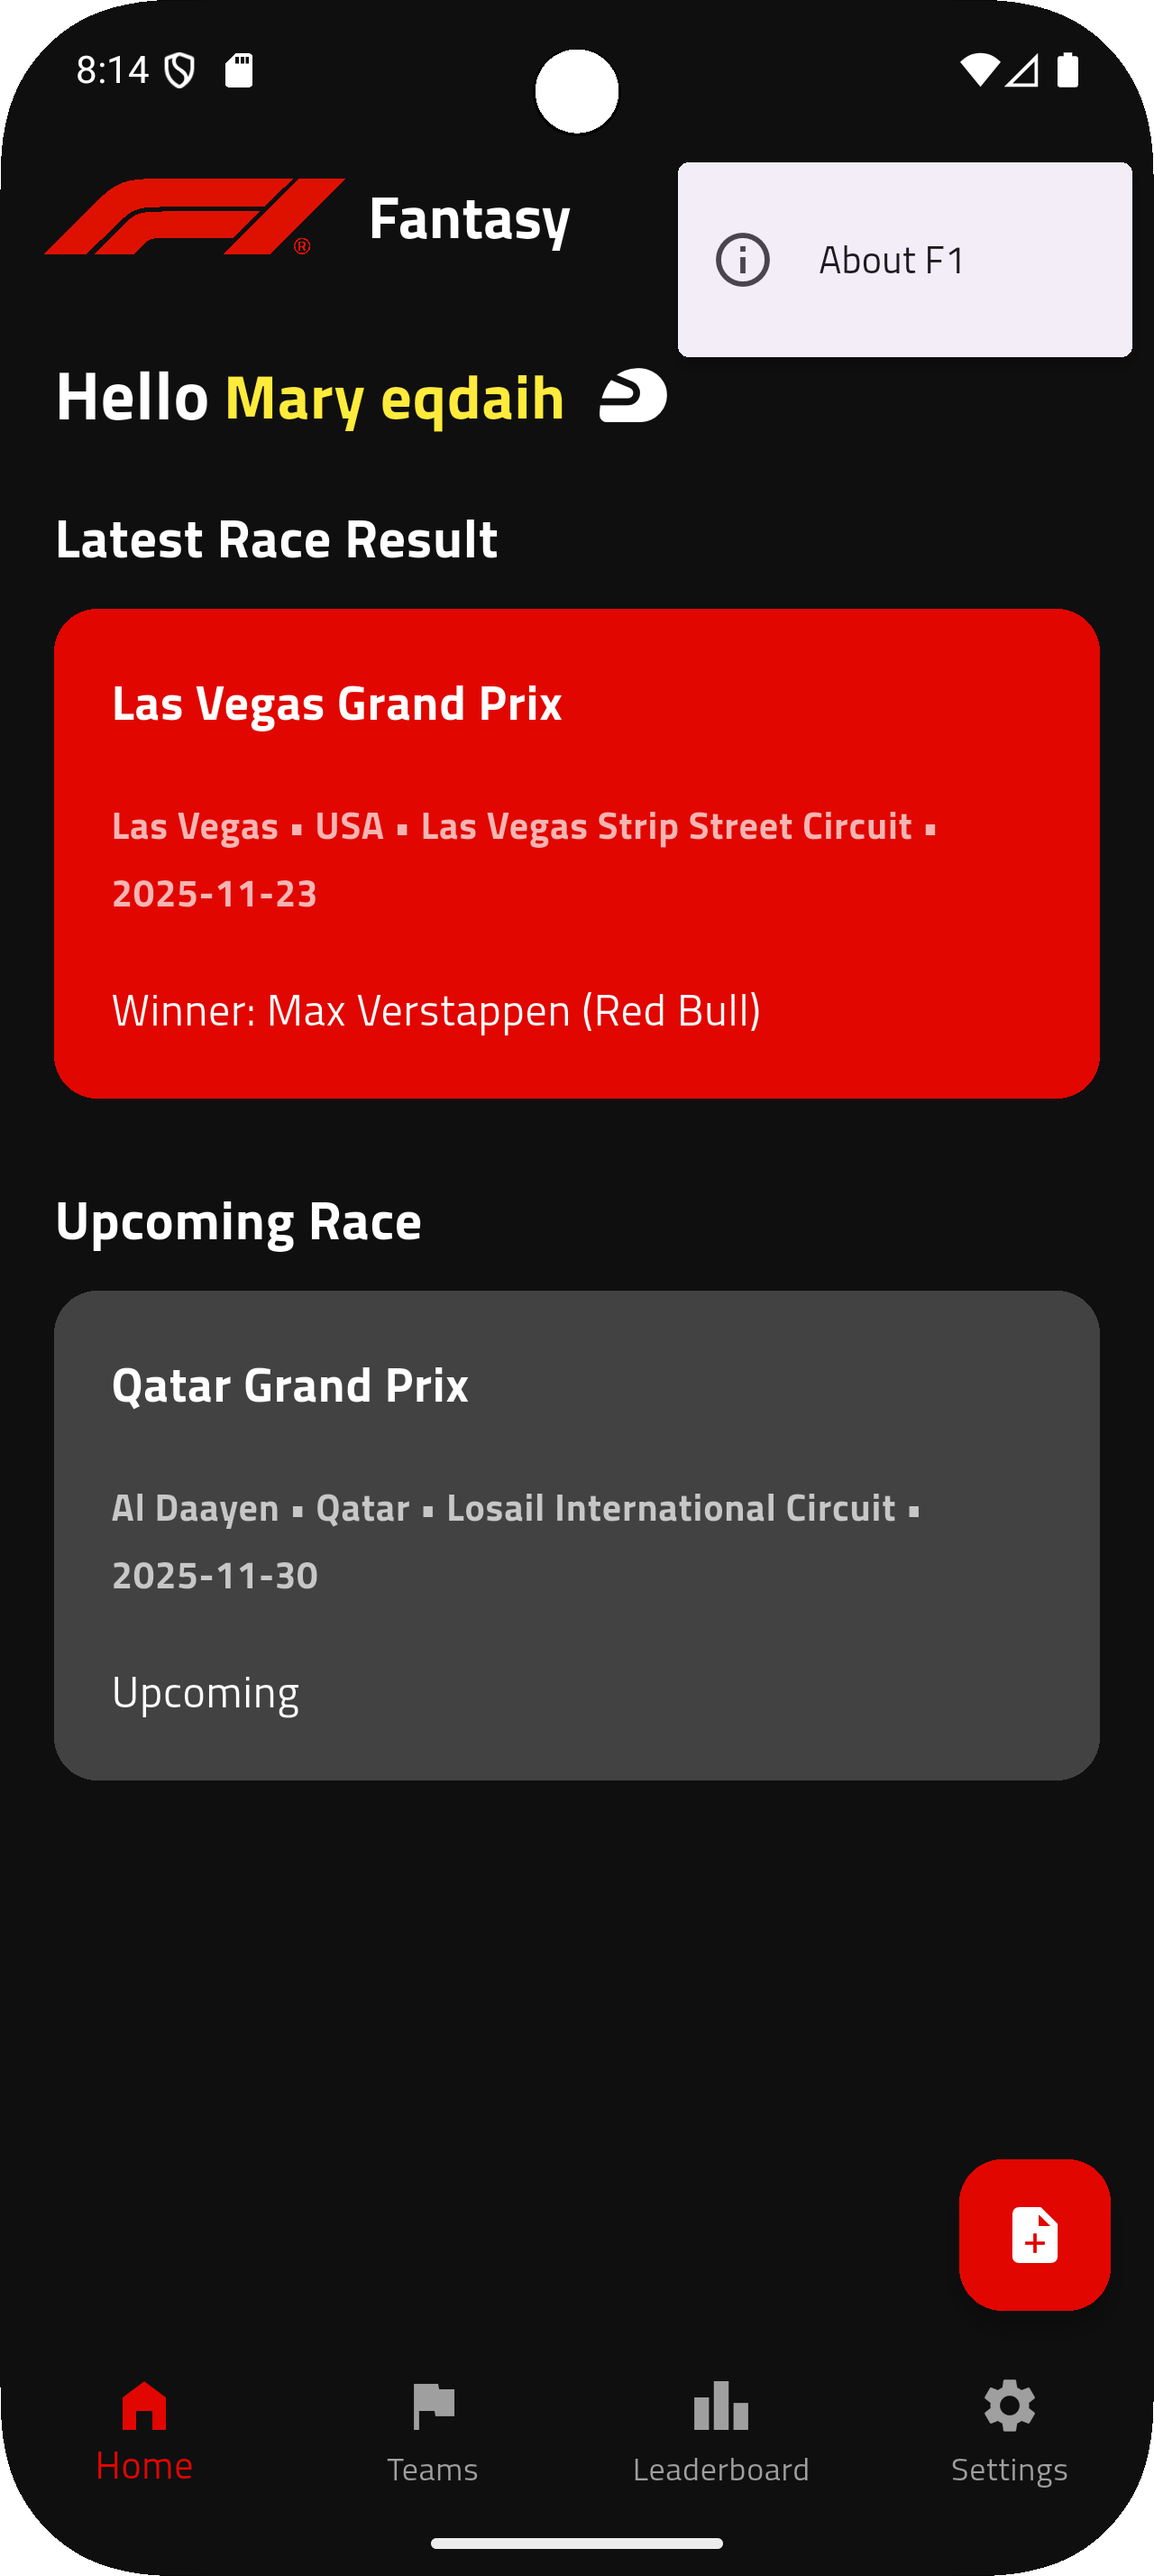
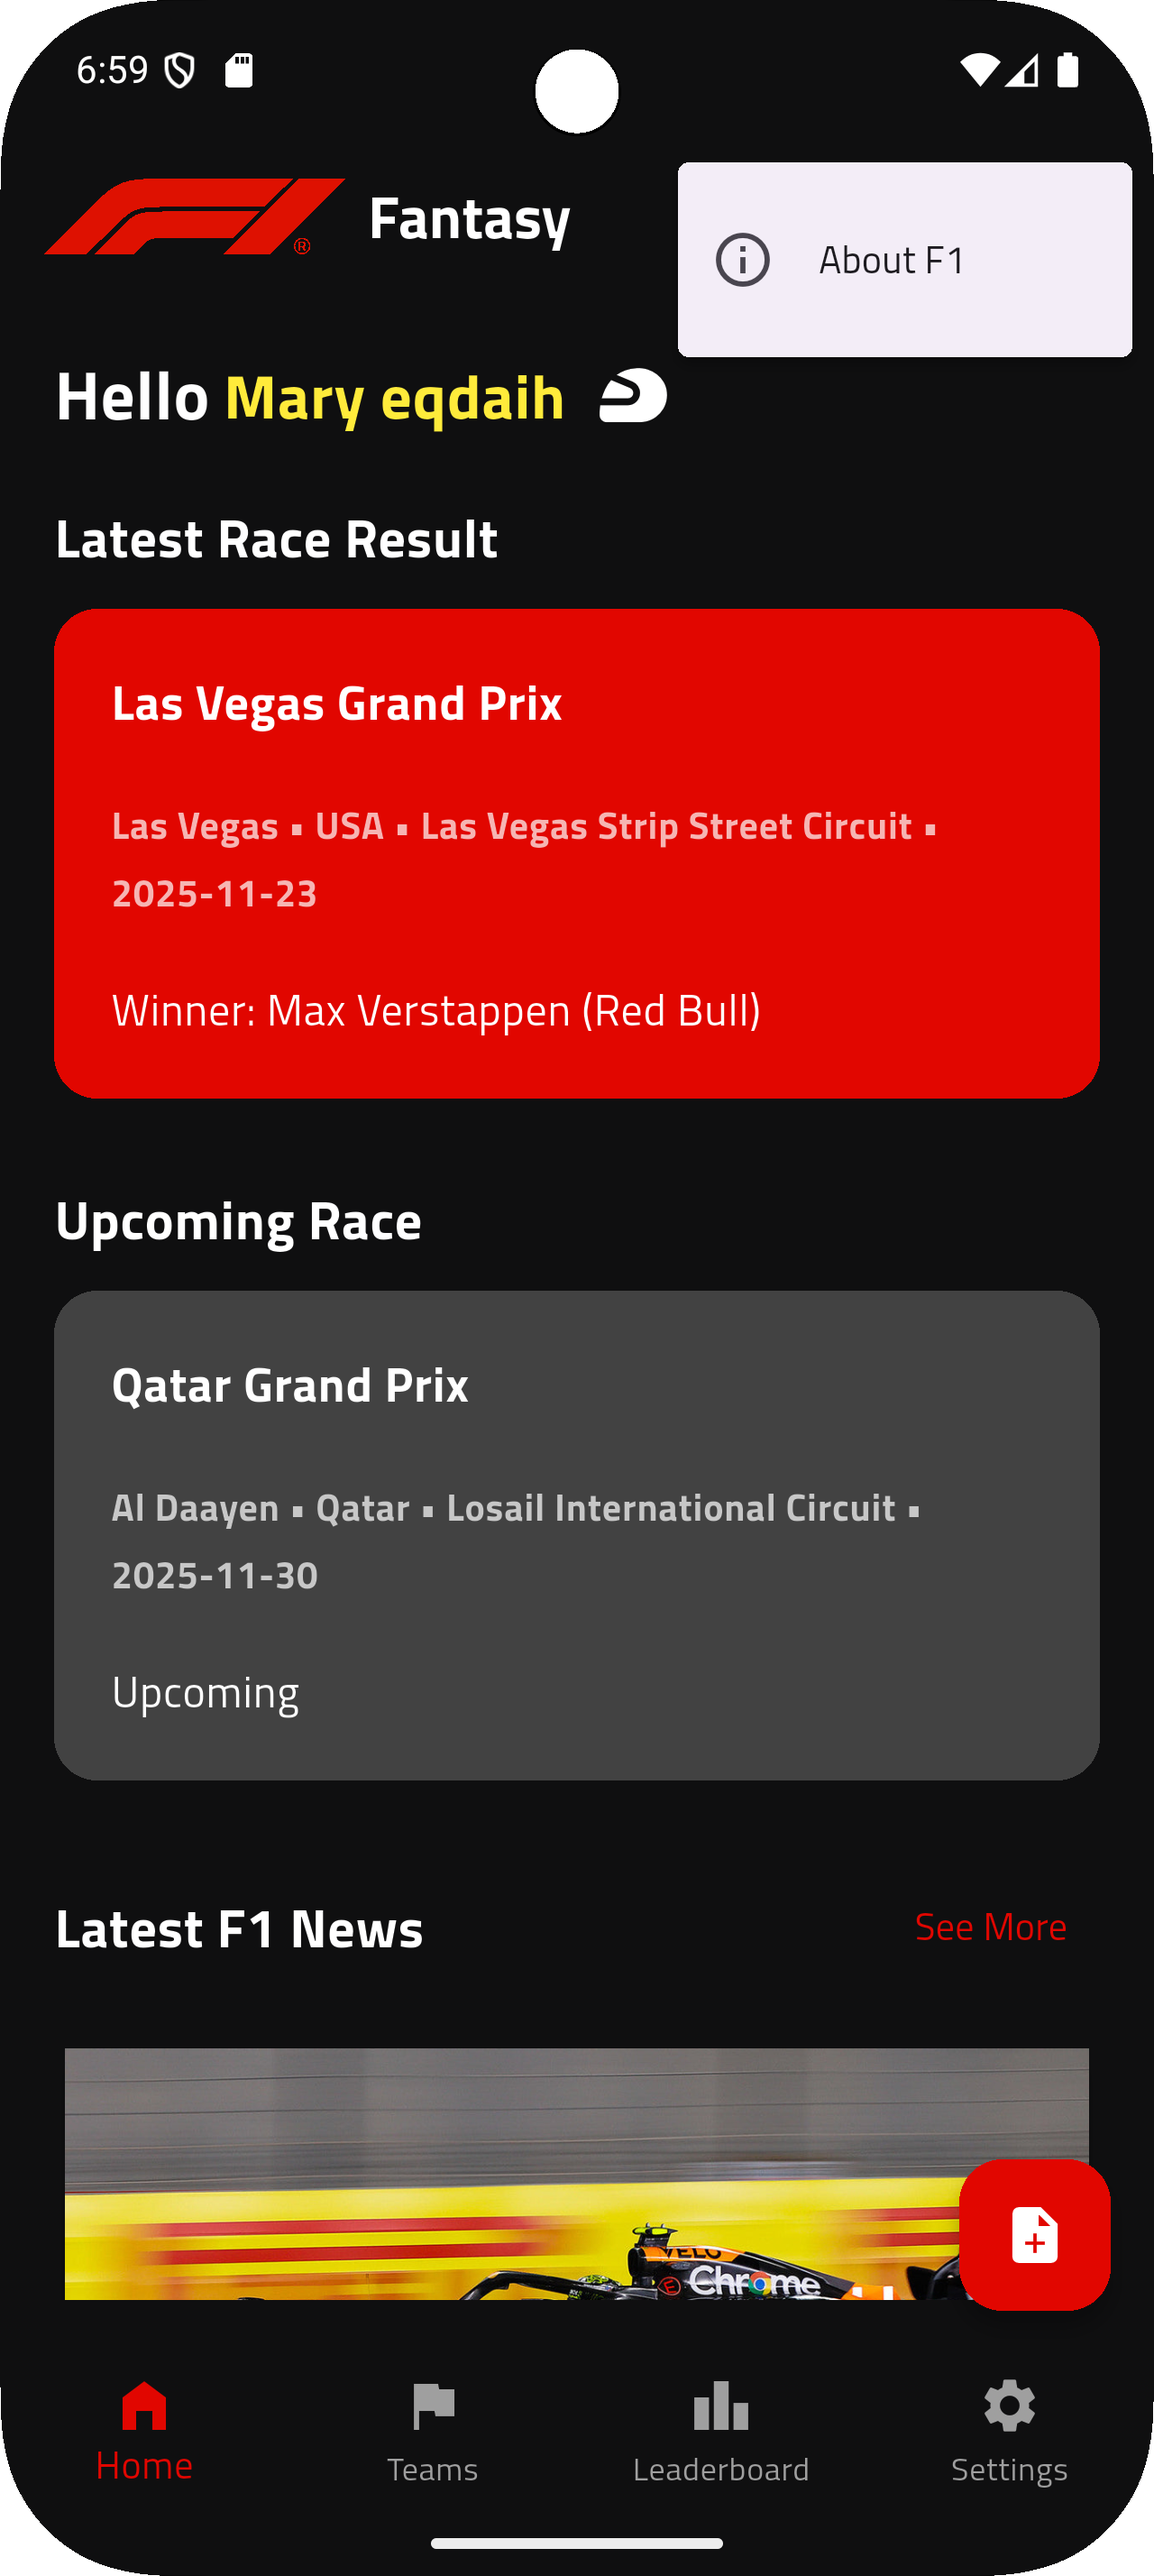
Add F1 news section
- Introduce a "Latest F1 News" section on the `Home` screen, displaying the most recent news item in a card.
- Add a "See More" button that navigates to a new `News` screen, which lists all available news articles.
- Create a `News` screen to display a list of `NewsCardWidget`.
- Implement `NewsCardWidget` for a consistent UI to display news with an image, title, and subtitle.
- Define a `NewsModel` to structure the news data (title, subtitle, image URL).
- Add the `/news` route to the application's routing table.
- Update `README.md` to include a screenshot of the new F1 news screen.

Changed region(s): [[0.0312, 0.7167, 0.9688, 0.9037], [0.0938, 0.0, 0.125, 0.0312]]

diff --git a/lib/f1/presentation/screens/home/home.dart b/lib/f1/presentation/screens/home/home.dart
@@ -1,10 +1,13 @@
 import 'package:firebase_auth/firebase_auth.dart';
 import 'package:flutter/material.dart';
+import 'package:formula1_fantasy/f1/data/models/news_model.dart';
 import 'package:formula1_fantasy/f1/data/models/race_details_model.dart';
 import 'package:formula1_fantasy/f1/data/models/race_info_model.dart';
 import 'package:formula1_fantasy/f1/data/remote/f1_api.dart';
 import 'package:formula1_fantasy/f1/presentation/screens/raceDetails/race_details.dart';
+import 'package:formula1_fantasy/f1/presentation/widgets/news_card_widget.dart';
 import 'package:formula1_fantasy/f1/presentation/widgets/race_widget.dart';
+import 'package:formula1_fantasy/routes/routes.dart';
 
 class Home extends StatefulWidget {
   const Home({super.key});
@@ -44,6 +47,47 @@ class _HomeState extends State<Home> {
 
   @override
   Widget build(BuildContext context) {
+    List<NewsModel> news = [
+      NewsModel(
+        title: "McLaren Disqualified from the Race",
+        subtitle:
+            "McLaren removed from 2025 Las Vegas GP results after both cars failed post‑race inspection — skid‑block wear below the 9 mm minimum triggered disqualification.",
+        imgUrl:
+            "https://fansbrands.com/cdn/shop/articles/mclaren_auto_7_2a3f8809-05b4-437b-b723-51f073965a6f.jpg?v=1758158815&width=1600",
+      ),
+      NewsModel(
+        title:
+            "Verstappen Wins Las Vegas GP After McLaren Double Disqualification",
+        subtitle:
+            "Max Verstappen claimed victory at the 2025 Las Vegas Grand Prix after both McLaren cars were excluded post‑race due to excessive skid‑block wear.", // info from F1 report
+        imgUrl:
+            "https://encrypted-tbn0.gstatic.com/images?q=tbn:ANd9GcTjpV1F7rqrWdCIkGMuIeCHwGSiCd5cryJ8uA&s",
+      ),
+
+      NewsModel(
+        title: "McLaren Issues Apology Following Double DSQ in Vegas",
+        subtitle:
+            "McLaren acknowledged the disqualification of Lando Norris and Oscar Piastri was unintentional, citing unexpected plank wear due to circuit conditions in Las Vegas.",
+        imgUrl:
+            "https://encrypted-tbn0.gstatic.com/images?q=tbn:ANd9GcQjKiGrxsacYpo3C8vcMzND84FD5JJlpwV0lw&s",
+      ),
+
+      NewsModel(
+        title: "Championship Shake‑Up: Norris’ Lead Cut After Vegas DSQ",
+        subtitle:
+            "With the Las Vegas Grand Prix results voided for McLaren, the title battle tightens — Verstappen now closes in, while Piastri moves level on points.",
+        imgUrl:
+            "https://encrypted-tbn0.gstatic.com/images?q=tbn:ANd9GcSHsT6HaaMfpwEqoFY6avgFJe_9fnl7uAiioA&s",
+      ),
+
+      NewsModel(
+        title: "Full Vegas GP Results: Russell and Antonelli Promote to Podium",
+        subtitle:
+            "After McLaren’s exclusion, George Russell and Kimi Antonelli were elevated to 2nd and 3rd place respectively in the adjusted 2025 Las Vegas Grand Prix standings.",
+        imgUrl:
+            "https://cdn-5.motorsport.com/images/amp/0mb4DnG2/s1000/andrea-kimi-antonelli-mercedes.jpg",
+      ),
+    ];
     final user = FirebaseAuth.instance.currentUser;
 
     const f1Red = Color(0xFFE10600);
@@ -125,6 +169,31 @@ class _HomeState extends State<Home> {
               '${nextRace!.location} • ${nextRace!.circuit} • ${nextRace!.date} ',
           result: "Upcoming",
         ),
+        const SizedBox(height: 30),
+        Row(
+          mainAxisAlignment: MainAxisAlignment.spaceBetween,
+          children: [
+            const Text(
+              "Latest F1 News",
+              style: TextStyle(
+                color: Colors.white,
+                fontSize: 20,
+                fontFamily: 'TitilliumWeb',
+                fontWeight: FontWeight.bold,
+              ),
+            ),
+
+            TextButton(
+              onPressed: () {
+                Navigator.pushNamed(context, Routes.news, arguments: news);
+              },
+              child: Text("See More", style: TextStyle(color: f1Red)),
+            ),
+          ],
+        ),
+        const SizedBox(height: 12),
+        NewsCardWidget(onTap: () {}, model: news[0]),
+
         const SizedBox(height: 30),
       ],
     );

diff --git a/lib/f1/presentation/screens/news/news.dart b/lib/f1/presentation/screens/news/news.dart
@@ -1,0 +1,77 @@
+import 'package:flutter/material.dart';
+import 'package:flutter_svg/svg.dart';
+import 'package:formula1_fantasy/f1/data/models/news_model.dart';
+import 'package:formula1_fantasy/f1/presentation/widgets/news_card_widget.dart';
+
+
+class News extends StatelessWidget {
+  const News({super.key});
+
+  @override
+  Widget build(BuildContext context) {
+    final List<NewsModel> newsList =
+        ModalRoute.of(context)!.settings.arguments as List<NewsModel>;
+    const darkBg = Color(0xFF0F0F10);
+    return Scaffold(
+
+      backgroundColor: darkBg,
+      appBar: AppBar(
+        bottom: PreferredSize(
+          preferredSize: const Size.fromHeight(50),
+          child: Padding(
+            padding: EdgeInsetsGeometry.symmetric(vertical: 10,horizontal: 16 ),
+            child: Align(
+              alignment: AlignmentGeometry.topLeft,
+              child: const Text(
+                "Latest News",
+                style: TextStyle(
+                  fontFamily: 'TitilliumWeb',
+                  fontWeight: FontWeight.bold,
+                  fontSize: 20,
+                  color: Colors.white,
+                ),
+              ),
+            ),
+          ),
+        ),
+
+        leading: IconButton(
+          onPressed: () {
+            Navigator.pop(context);
+          },
+          icon: Icon(Icons.arrow_back, color: Colors.white),
+        ),
+        backgroundColor: darkBg,
+        elevation: 0,
+        title: Row(
+          children: [
+            SvgPicture.asset('assets/images/F1_logo.svg', height: 28),
+            const SizedBox(width: 8),
+            const Text(
+              "Fantasy",
+              style: TextStyle(
+                fontFamily: 'TitilliumWeb',
+                fontWeight: FontWeight.bold,
+                fontSize: 22,
+                color: Colors.white,
+              ),
+            ),
+          ],
+        ),
+      ),
+      body: Padding(
+        padding: const EdgeInsets.all(16.0),
+        child: ListView.builder(
+          itemCount: newsList.length,
+          itemBuilder: (BuildContext context, int index) {
+            final newsItem = newsList[index]; // Get the individual news item
+            return NewsCardWidget(
+              onTap: () {},
+              model: newsItem,
+            );
+          },
+        ),
+      ),
+    );
+  }
+}

diff --git a/lib/f1/presentation/widgets/news_card_widget.dart b/lib/f1/presentation/widgets/news_card_widget.dart
@@ -1,0 +1,57 @@
+import 'package:flutter/material.dart';
+import 'package:formula1_fantasy/f1/data/models/news_model.dart';
+class NewsCardWidget extends StatelessWidget {// New parameter for image URL
+  final VoidCallback onTap;
+  final NewsModel model;
+
+  const NewsCardWidget({
+    Key? key,
+
+    required this.onTap, required this.model,
+  }) : super(key: key);
+
+  @override
+  Widget build(BuildContext context) {
+    return Padding(
+      padding: EdgeInsets.symmetric(vertical: 5),
+      child: Card(
+        color: Color(0xFF424242),
+        child: InkWell(
+          onTap: onTap,
+          child: Column(
+            children: [
+              Container(
+                height: 200,
+                decoration: BoxDecoration(
+                  image: DecorationImage(
+                    image: NetworkImage(model.imgUrl),
+                    fit: BoxFit.cover,
+                  ),
+                ),
+              ),
+              ListTile(
+                contentPadding: EdgeInsetsGeometry.all(10),
+                title: Text(
+                  model.title,
+                  style: TextStyle(
+                    color: Colors.white,
+                    fontSize: 18,
+                    fontWeight: FontWeight.bold,
+                    fontFamily: "TitilliumWeb",
+                  ),
+                ),
+                subtitle: Text(
+                  model.subtitle,
+                  style: TextStyle(
+                    color: Colors.white70,
+                    fontSize: 14,
+                    fontFamily: "TitilliumWeb",
+                  ),
+                ),
+              ),
+            ],
+          ),
+        ),
+      ),
+    );
+  }}

diff --git a/lib/main.dart b/lib/main.dart
@@ -9,6 +9,7 @@ import 'package:formula1_fantasy/f1/presentation/screens/aboutF1/about.dart';
 import 'package:formula1_fantasy/f1/presentation/screens/auth/sign_in.dart';
 import 'package:formula1_fantasy/f1/presentation/screens/auth/sign_up.dart';
 import 'package:formula1_fantasy/f1/presentation/screens/favorites/favorites.dart';
+import 'package:formula1_fantasy/f1/presentation/screens/news/news.dart';
 import 'package:formula1_fantasy/f1/presentation/screens/notes/add_note.dart';
 import 'package:formula1_fantasy/f1/presentation/screens/profile/profile.dart';
 import 'package:formula1_fantasy/f1/presentation/screens/settings/settings.dart';
@@ -60,6 +61,7 @@ class _MyAppState extends State<MyApp> {
             Routes.addNote: (context) => AddNote(),
             Routes.profile:(context) => Profile(),
             Routes.settings:(context) => Settings(),
+            Routes.news:(context) => News(),
             // Routes.DriverDetails:(context) => DriverDetails(),
 
           },

diff --git a/lib/f1/presentation/screens/favorites/favorites.dart b/lib/f1/presentation/screens/favorites/favorites.dart
@@ -50,7 +50,7 @@ class Favorites extends StatelessWidget {
             child: CircleAvatar(
               radius: 10,
               backgroundImage: NetworkImage(
-                'https://placehold.co/600x400/FFFFFF/000000/png',
+                'https://images.unsplash.com/photo-1602043410209-d57816124451?q=80&w=1332&auto=format&fit=crop&ixlib=rb-4.1.0&ixid=M3wxMjA3fDB8MHxwaG90by1wYWdlfHx8fGVufDB8fHx8fA%3D%3D',
               ),
             ),
           ),

diff --git a/lib/routes/routes.dart b/lib/routes/routes.dart
@@ -10,7 +10,8 @@ class Routes {
     static const String addNote = "/addNote";
     static const String profile = "/profile";
     static const String settings = "/settings";
-    static const String DriverDetails = "/DriverDetails";
+    static const String driverDetails = "/driverDetails";
+    static const String news = "/news";
 
 
 

diff --git a/lib/f1/data/models/news_model.dart b/lib/f1/data/models/news_model.dart
@@ -1,0 +1,11 @@
+class NewsModel {
+  final String title;
+  final String subtitle;
+  final String imgUrl;
+
+  NewsModel({
+    required this.title,
+    required this.subtitle,
+    required this.imgUrl,
+  });
+}

diff --git a/README.md b/README.md
@@ -73,9 +73,9 @@ Tap any image to view full size.
 |--------------|----------------|---------------|----------------------|
 | ![Add Note](assets/screenshots/add_note.png) | ![Notes](assets/screenshots/notes.png) | ![Edit Note](assets/screenshots/edit_note.png) | ![After Edit](assets/screenshots/notes_after_edit.png) |
 
-| **Settings** | **Profile** | **About F1** |
-|--------------|-------------|-------------|
-| ![Settings](assets/screenshots/settings.png) | ![Profile](assets/screenshots/profile.png) |![About F1](assets/screenshots/about_f1.png) |
+| **Settings** | **Profile** | **About F1** | ** Latest F1 News**                     |
+|--------------|-------------|-------------|-----------------------------------------|
+| ![Settings](assets/screenshots/settings.png) | ![Profile](assets/screenshots/profile.png) |![About F1](assets/screenshots/about_f1.png) | ![F1 News](assets/screenshots/news.png) |
 
 
 ---
